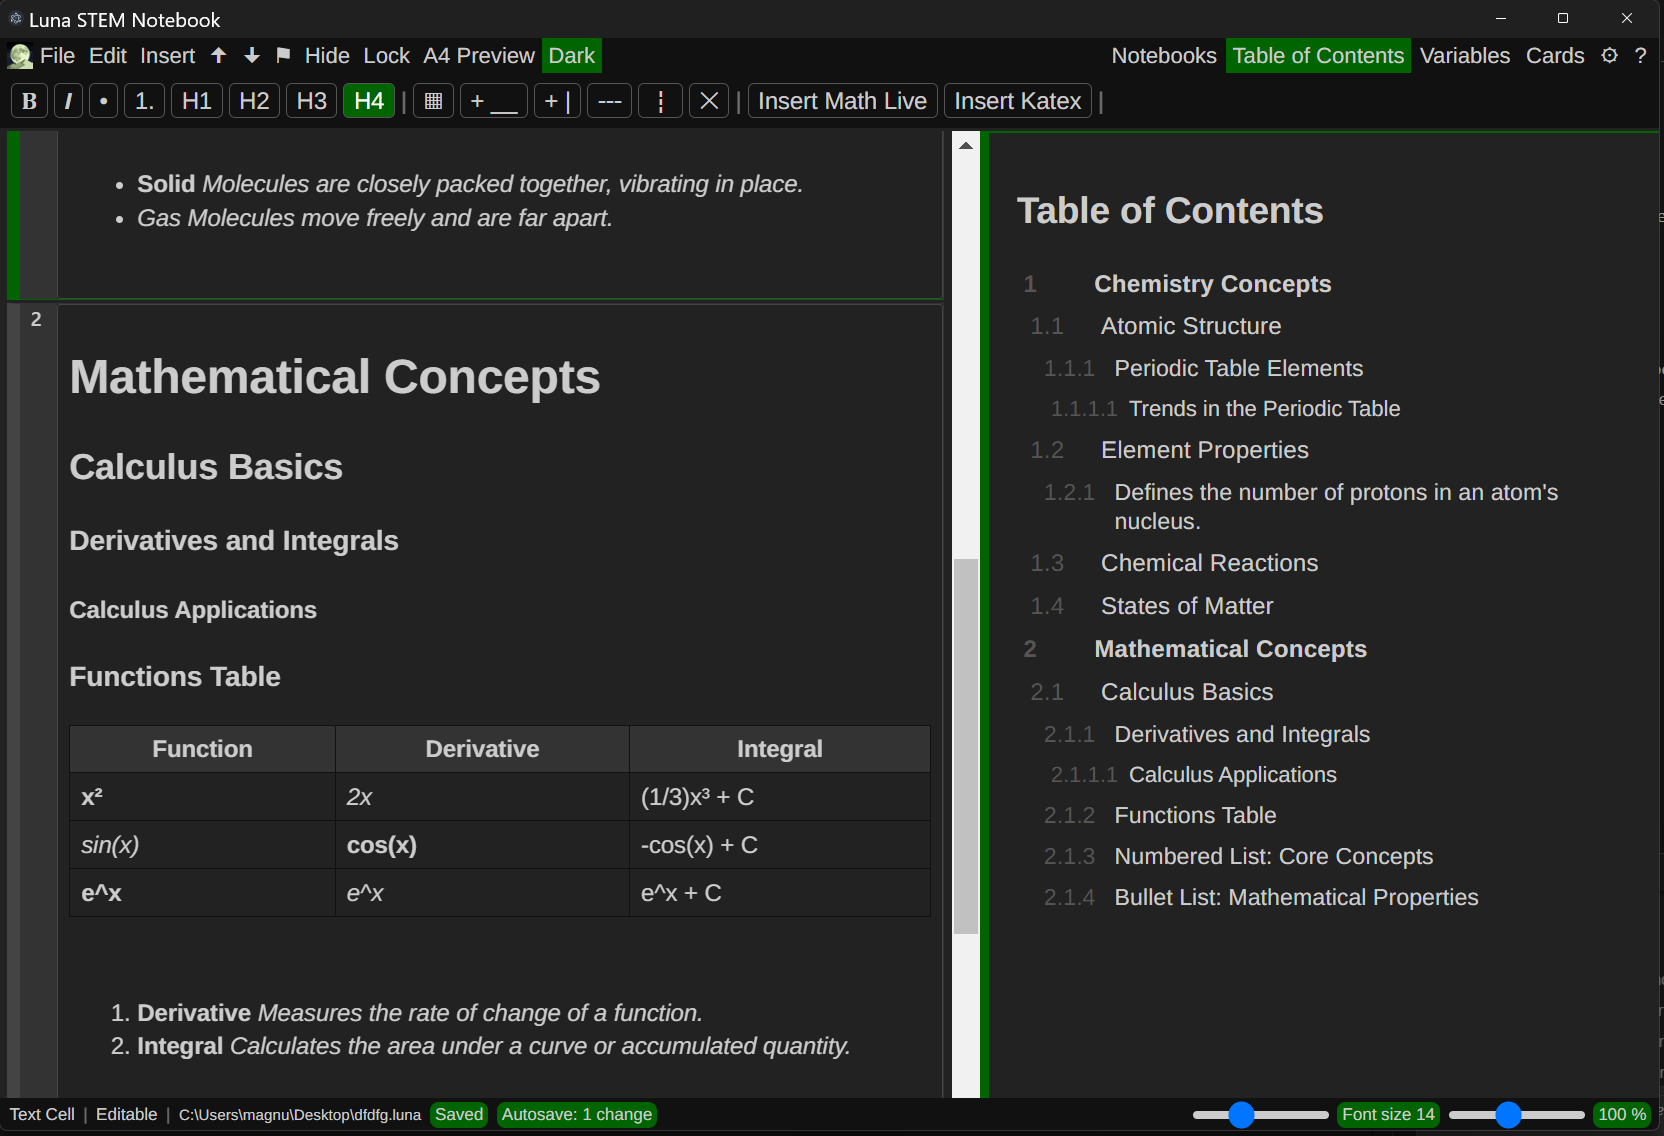
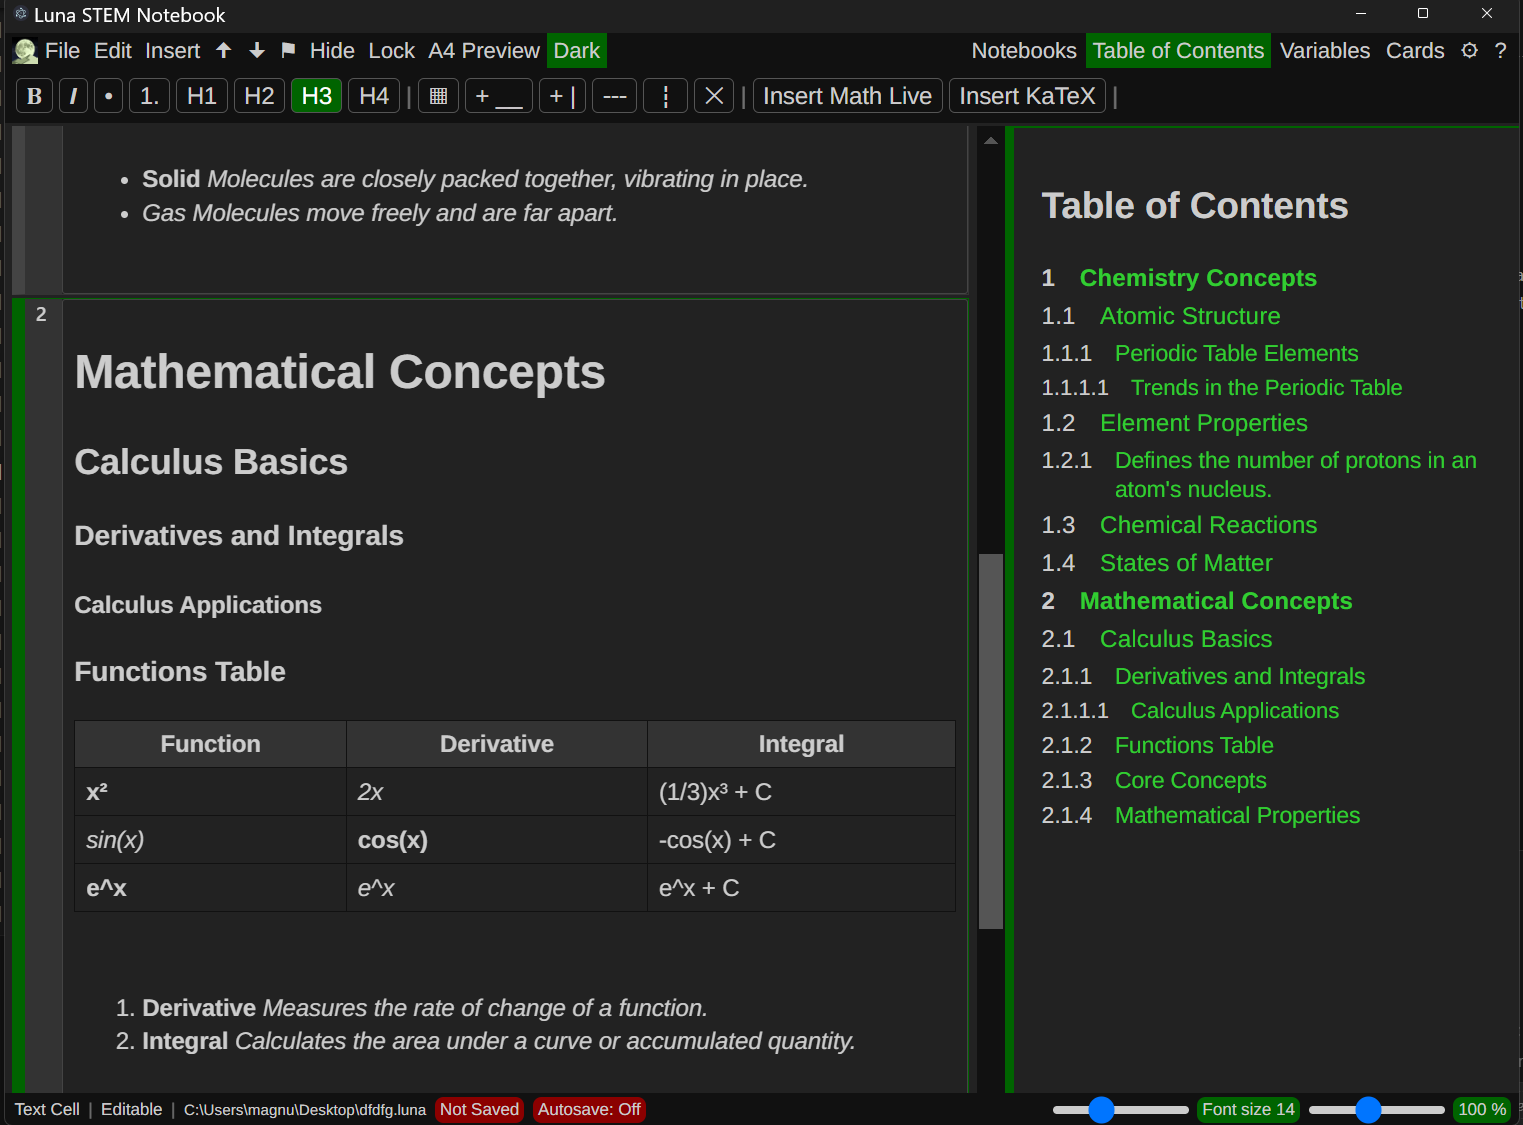
feat: enhance theme customization with scrollbar and link colors; update TOCPanel and TextCellToolbar styles

diff --git a/src/renderer/src/components/side_panel/TOCPanel.vue b/src/renderer/src/components/side_panel/TOCPanel.vue
@@ -56,8 +56,8 @@ const headings = computed<TocHeading[]>(() => {
       const rawInner = m[3]
       // Strip HTML tags to plain text (basic)
       const text = rawInner
-        .replace(/<[^>]+>/g, '')
-        .replace(/&nbsp;/g, ' ')
+        .replace(/<[^>]+>/g, ' ')
+        .replace(/&nbsp;/g, '')
         .replace(/&amp;/g, '&')
         .replace(/&lt;/g, '<')
         .replace(/&gt;/g, '>')
@@ -143,7 +143,7 @@ watch(
   padding: 0;
   display: flex;
   flex-direction: column;
-  gap: 0.15rem;
+  gap: 0rem;
 }
 .toc-item {
   display: block;
@@ -151,49 +151,43 @@ watch(
 .toc-link {
   background: none;
   border: none;
-  padding: 0.15rem 0.25rem;
+  padding: 0.15em 0.25em;
   width: 100%;
   text-align: left;
   cursor: pointer;
   font: inherit;
-  color: var(--text-color, #222);
+  color: var(--link-color, #3e55b8);
   border-radius: 3px;
   display: flex;
-  gap: 0.4rem;
+  gap: 1em;
   align-items: flex-start;
 }
 .toc-link:hover {
-  background: var(--cell-margin-background-color, #eef2f5);
+  background: var(--button-hover-color);
 }
 .toc-num {
   font-variant-numeric: tabular-nums;
-  color: var(--text-dim-color, #555);
-  min-width: 2.2rem;
+  color: var(--text-color, #555);
+  min-width: 0em;
   text-align: left;
   flex-shrink: 0;
 }
 .toc-num::after {
-  content: ' ';
+  content: '';
 }
 .toc-item.lvl-1 .toc-link {
+  padding-left: 0em;
   font-weight: 600;
 }
 .toc-item.lvl-2 .toc-link {
-  padding-left: 0.5rem;
+  padding-left: 0em;
 }
 .toc-item.lvl-3 .toc-link {
-  padding-left: 1rem;
-  font-size: 0.95em;
+  padding-left: 0em;
+  font-size: 0.93em;
 }
 .toc-item.lvl-4 .toc-link {
-  padding-left: 1.25rem;
+  padding-left: 0em;
   font-size: 0.9em;
-}
-
-/* Temporary highlight style when jumping */
-.toc-highlight {
-  outline: 2px solid var(--active-border-color, #2563eb);
-  outline-offset: 2px;
-  transition: outline-color 1s ease;
 }
 </style>

diff --git a/src/renderer/src/stores/themes/colorThemeStore.ts b/src/renderer/src/stores/themes/colorThemeStore.ts
@@ -73,7 +73,12 @@ export const useThemeStore = defineStore('theme', {
       resetZoomButtonColorCenter: 'lightgreen',
       resetZoomButtonColorOffCenter: 'salmon',
       /* Flagged cells */
-      flaggedCellColor: 'salmon' // flagged cell index background
+      flaggedCellColor: 'salmon', // flagged cell index background
+      /* Links */
+      linkColor: 'green',
+      /* Scrollbar colors */
+      scrollbarThumbColor: 'gray',
+      scrollbarTrackColor: 'lightgray'
     } as ThemeColorTypes,
 
     darkTheme: {
@@ -141,7 +146,12 @@ export const useThemeStore = defineStore('theme', {
       resetZoomButtonColorCenter: 'darkgreen',
       resetZoomButtonColorOffCenter: 'darkred',
       /* Flagged cells */
-      flaggedCellColor: 'darkred' // red for flagged cells
+      flaggedCellColor: 'darkred', // red for flagged cells
+      /* Links */
+      linkColor: 'limegreen',
+      /* Scrollbar colors */
+      scrollbarThumbColor: '#555555',
+      scrollbarTrackColor: '#111111'
     } as ThemeColorTypes
   }),
 
@@ -218,6 +228,9 @@ export const useThemeStore = defineStore('theme', {
       root.style.setProperty('--slider-thumb-color', colors.sliderThumbColor)
       root.style.setProperty('--slider-track-color', colors.sliderTrackColor)
       root.style.setProperty('--flagged-cell-color', colors.flaggedCellColor)
+      root.style.setProperty('--link-color', colors.linkColor)
+      root.style.setProperty('--scrollbar-thumb-color', colors.scrollbarThumbColor)
+      root.style.setProperty('--scrollbar-track-color', colors.scrollbarTrackColor)
     },
     getLightTheme() {
       return this.lightTheme

diff --git a/src/renderer/src/main.ts b/src/renderer/src/main.ts
@@ -38,3 +38,21 @@ watch(
   },
   { immediate: true }
 )
+
+// Reactive scrollbar color updates (only recompute these two vars when needed)
+watch(
+  () => [
+    themeStore.isDarkMode,
+    themeStore.lightTheme.scrollbarThumbColor,
+    themeStore.lightTheme.scrollbarTrackColor,
+    themeStore.darkTheme.scrollbarThumbColor,
+    themeStore.darkTheme.scrollbarTrackColor
+  ],
+  () => {
+    const c = themeStore.isDarkMode ? themeStore.darkTheme : themeStore.lightTheme
+    const root = document.documentElement
+    root.style.setProperty('--scrollbar-thumb-color', c.scrollbarThumbColor)
+    root.style.setProperty('--scrollbar-track-color', c.scrollbarTrackColor)
+  },
+  { immediate: true }
+)

diff --git a/src/renderer/src/css/main.css b/src/renderer/src/css/main.css
@@ -22,6 +22,25 @@ Main CSS entry for the renderer
   font-size: var(--main-app-font-size, 1.1em);
 }
 
+/* Custom scrollbar styling using theme variables */
+::-webkit-scrollbar {
+  width: 12px;
+  background: var(--scrollbar-track-color, #f0f0f0);
+}
+::-webkit-scrollbar-thumb {
+  background: var(--scrollbar-thumb-color, gray);
+  border-radius: 6px;
+}
+::-webkit-scrollbar-track {
+  background: var(--scrollbar-track-color, #f0f0f0);
+}
+
+/* For Firefox */
+body {
+  scrollbar-color: var(--scrollbar-thumb-color, gray) var(--scrollbar-track-color, #f0f0f0);
+  scrollbar-width: thin;
+}
+
 
 /* Small responsive tweaks */
 @media (max-width: 720px) {

diff --git a/src/renderer/src/components/toolbars/TextCellToolbar.vue b/src/renderer/src/components/toolbars/TextCellToolbar.vue
@@ -305,7 +305,7 @@ function isActiveHeading(level: number): boolean {
 /* Rely on shared .toolbar-btn styles from toolbar-base.css; only override active state if needed */
 .toolbar-btn.active {
   background: var(--button-on-color, #2563eb);
-  color: #fff;
+  color: var(--text-color, #fff);
   border: var(--toolbar-button-border-hover, 1px solid #2563eb);
 }
 .sep {

diff --git a/src/renderer/src/css/main-imports-this-css/icons.css b/src/renderer/src/css/main-imports-this-css/icons.css
@@ -35,7 +35,7 @@
     /* Math */
     --icon-math-live-block: 'Insert Math Live';
     --icon-math-live-inline: 'Insert Math Live Inline';
-    --icon-math-katex-block: 'Insert Katex';
+    --icon-math-katex-block: 'Insert KaTeX';
     --icon-math-katex-inline: 'Insert Katex Inline';
 
 /* Icon utility classes (global) */

diff --git a/src/renderer/src/types/color-theme-types.d.ts b/src/renderer/src/types/color-theme-types.d.ts
@@ -68,6 +68,14 @@ export type ThemeColorTypes = {
 
   resetZoomButtonColorCenter: string
   resetZoomButtonColorOffCenter: string
+
   // Flagged cells
   flaggedCellColor: string
+
+  // Links
+  linkColor: string
+
+  // Sctollbar colors
+  scrollbarThumbColor: string
+  scrollbarTrackColor: string
 }
